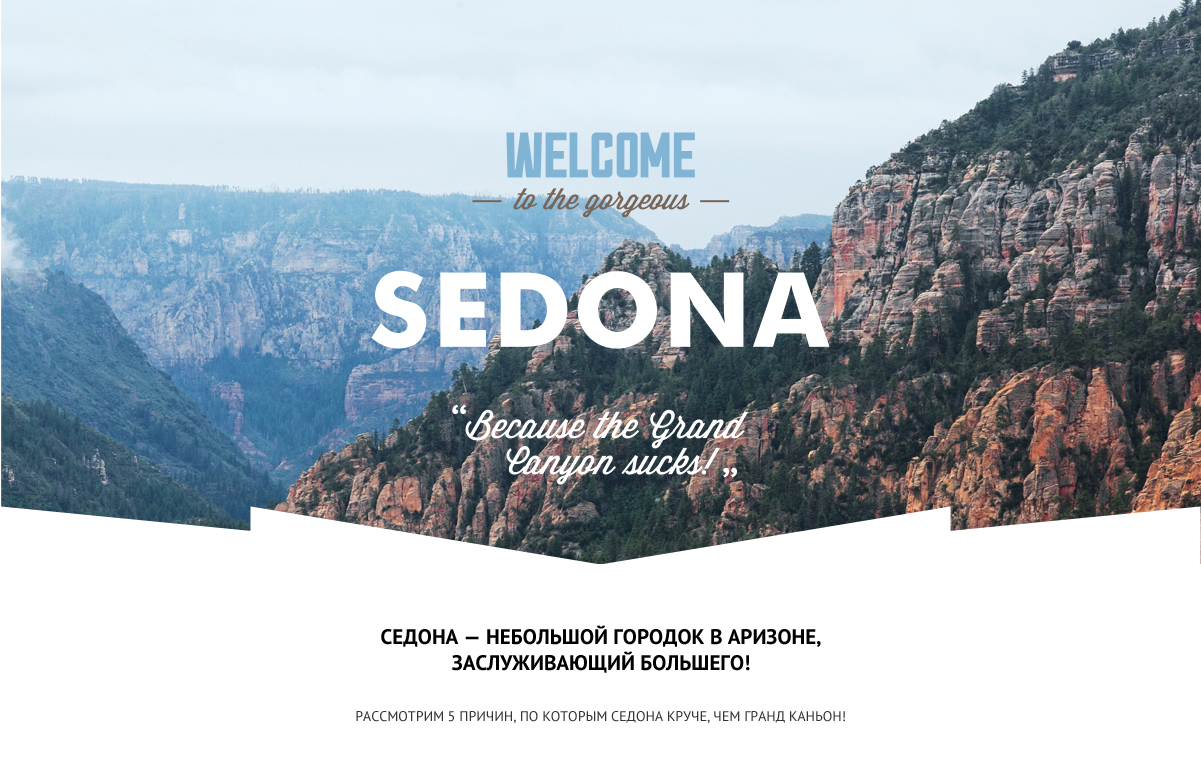
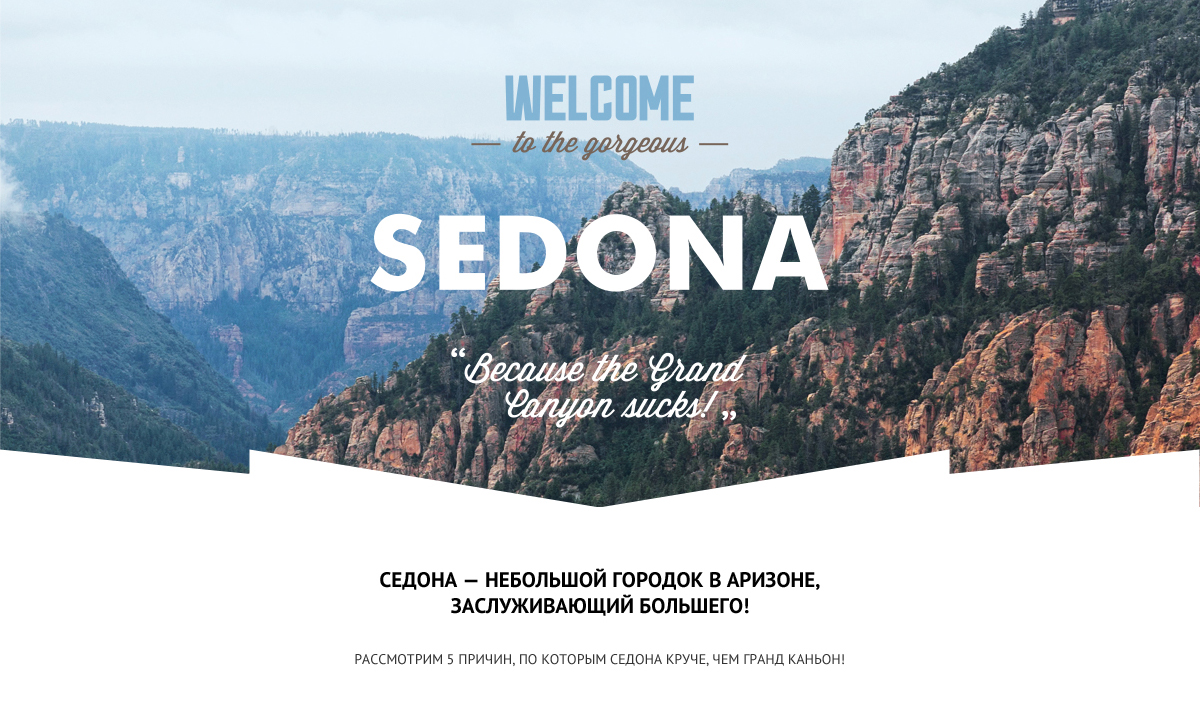
benefits1

diff --git a/index.html b/index.html
@@ -35,7 +35,7 @@
     <main>
       <section class="welcome">
         <img src="img/welcome.jpg" width="1200"
-          height="800" alt="промо изображение">
+          height="723" alt="промо изображение">
       </section>
       <section class="realtown">
         <div class="realtown-text">
@@ -49,24 +49,26 @@
             height="256" alt="настоящий городок">
         </div>
       </section>
-      <ul class="benefits1">
-        <li class="benefits1-item benefits1-item-housing">
-          <p class="benefits1-item-title"><b>Жилье</b></p>
-          <p class="benefits1-description">Рекомендуем пожить в настоящем мотеле, все как в кино!</p>
-        </li>
-        <li class="benefits1-item benefits1-item-food">
-          <p class="benefits1-item-title"><b>ЕДА</b></p>
-          <p class="benefits1-description">Всегда заказывайте ФИРМЕННЫЙ БУРГЕР, Вы НЕ разочаруетесь!</p>
-        </li>
-        <li class="benefits1-item benefits1-item-souvenir">
-          <p class="benefits1-item-title"><b>СУВЕНИРЫ</b></p>
-          <p class="benefits1-description">Не только китайского, но и местного производства!</p>
-        </li>
-      </ul>
+      <div class="benefits1-main">
+        <ul class="benefits1">
+          <li class="benefits1-item benefits1-item-housing">
+            <p class="benefits1-item-title"><b>Жилье</b></p>
+            <p class="benefits1-description">Рекомендуем пожить в настоящем мотеле, все как в кино!</p>
+          </li>
+          <li class="benefits1-item benefits1-item-food">
+            <p class="benefits1-item-title"><b>ЕДА</b></p>
+            <p class="benefits1-description">Всегда заказывайте ФИРМЕННЫЙ БУРГЕР, Вы НЕ разочаруетесь!</p>
+          </li>
+          <li class="benefits1-item benefits1-item-souvenir">
+            <p class="benefits1-item-title"><b>СУВЕНИРЫ</b></p>
+            <p class="benefits1-description">Не только китайского, но и местного производства!</p>
+          </li>
+        </ul>
+      </div>
       <section class="devil-bridge">
         <div class="devil-bridge-img">
           <img src="img/devil-bridge.jpg" width="800"
-            height="400" alt="мост дьявола">
+            height="256" alt="мост дьявола">
         </div>
         <div class="devil-bridge-text">
           <h2>Там есть <br> мост дьявола</h2>

diff --git a/css/style.css b/css/style.css
@@ -184,21 +184,6 @@ nav ul,
   text-transform: uppercase;
   text-align: center;
 }
-
-.benefits1-item-title b {
-  text-transform: uppercase;
-  font-size: 21px;
-  line-height: 21px;
-  color: #000000;
-}
-
-.benefits1-description {
-  text-transform: uppercase;
-  font-size: 14px;
-  line-height: 21px;
-  color: #333333;
-}
-
 .realtown,
 .devil-bridge {
   display: flex;
@@ -210,36 +195,77 @@ nav ul,
   color: white;
 }
 
-.realtown-text {
-  margin: 0;
-  padding: 0;
+.realtown-text,
+.devil-bridge-text {
+  margin-top: 45px;
   min-height: 256;
   width: 400px;
+  text-align: center;
 }
 
-.realtown-img {
+.realtown-img img,
+.devil-bridge img {
   display: block;
-  background-size: cover;
-  margin-left: auto;
-  min-height: 256;
-  width: 800px;
+}
+
+.benefits1-main {
+  width: 1200px;
+  min-height: 330px;
+  padding-top: 60px;
+  padding-left: 70px;
+  outline: 2px solid orange;
+}
+
+.benefits1-item-title b {
+  display: block;
+  margin-bottom: 30px;
+  text-transform: uppercase;
+  font-size: 21px;
+  line-height: 21px;
+  color: #000000;
+  outline: 2px solid red;
+}
+
+.benefits1-description {
+  margin: 0;
+  text-transform: uppercase;
+  font-size: 14px;
+  line-height: 21px;
+  color: #333333;
+  outline: 2px solid pink;
+  text-align: center;
+  max-width: 320px;
+}
+
+.benefits1-item-title p {
+  margin: 0;
 }
 
 .benefits2 {
   width: 1200px;
   min-height: 256px;
   background-color: #eeeeee;
-  margin-bottom: 55px;
+  outline: 2px solid green;
+  margin: 0;
+  padding: 0;
 }
 
 .benefits2-list {
+
   display: flex;
   justify-content: space-around;
   text-align: center;
+
 }
 
 .benefits2-list h2 {
-  padding-top: 50px;
+  margin-top: 45px;
+  margin-bottom: 30px;
+  outline: 2px solid blue;
+}
+
+.benefits2-list p:first-of-type {
+  padding-bottom: 20px;
 }
 
 .benefits2-list li:last-child {
@@ -375,7 +401,10 @@ nav ul,
 
 .benefits1-item {
   width: 33.333%;
-  padding: 100px 10px 0;
+  padding-top: 100px;
+  padding-left: 0;
+  padding-bottom: 0;
+  padding-right: 0;
   position: relative;
 }
 
@@ -392,11 +421,15 @@ nav ul,
   top: 0;
   left: 50%;
   transform:translateX(-50%);
+
 }
+
+
 
 .benefits1-item-housing::after {
   background: url(../img/svg-sedona/icon-1.svg);
   background-repeat: no-repeat;
+  outline: 2px solid green;
 }
 
 .benefits1-item-food::after {
@@ -410,7 +443,10 @@ nav ul,
 }
 
 .benefits1-item-title {
-  margin: 0 0 40px;
+  margin-top: 0;
+  margin-left: 0;
+  margin-right: 0;
+  margin-bottom: 0;
   text-transform: uppercase;
 }
 
